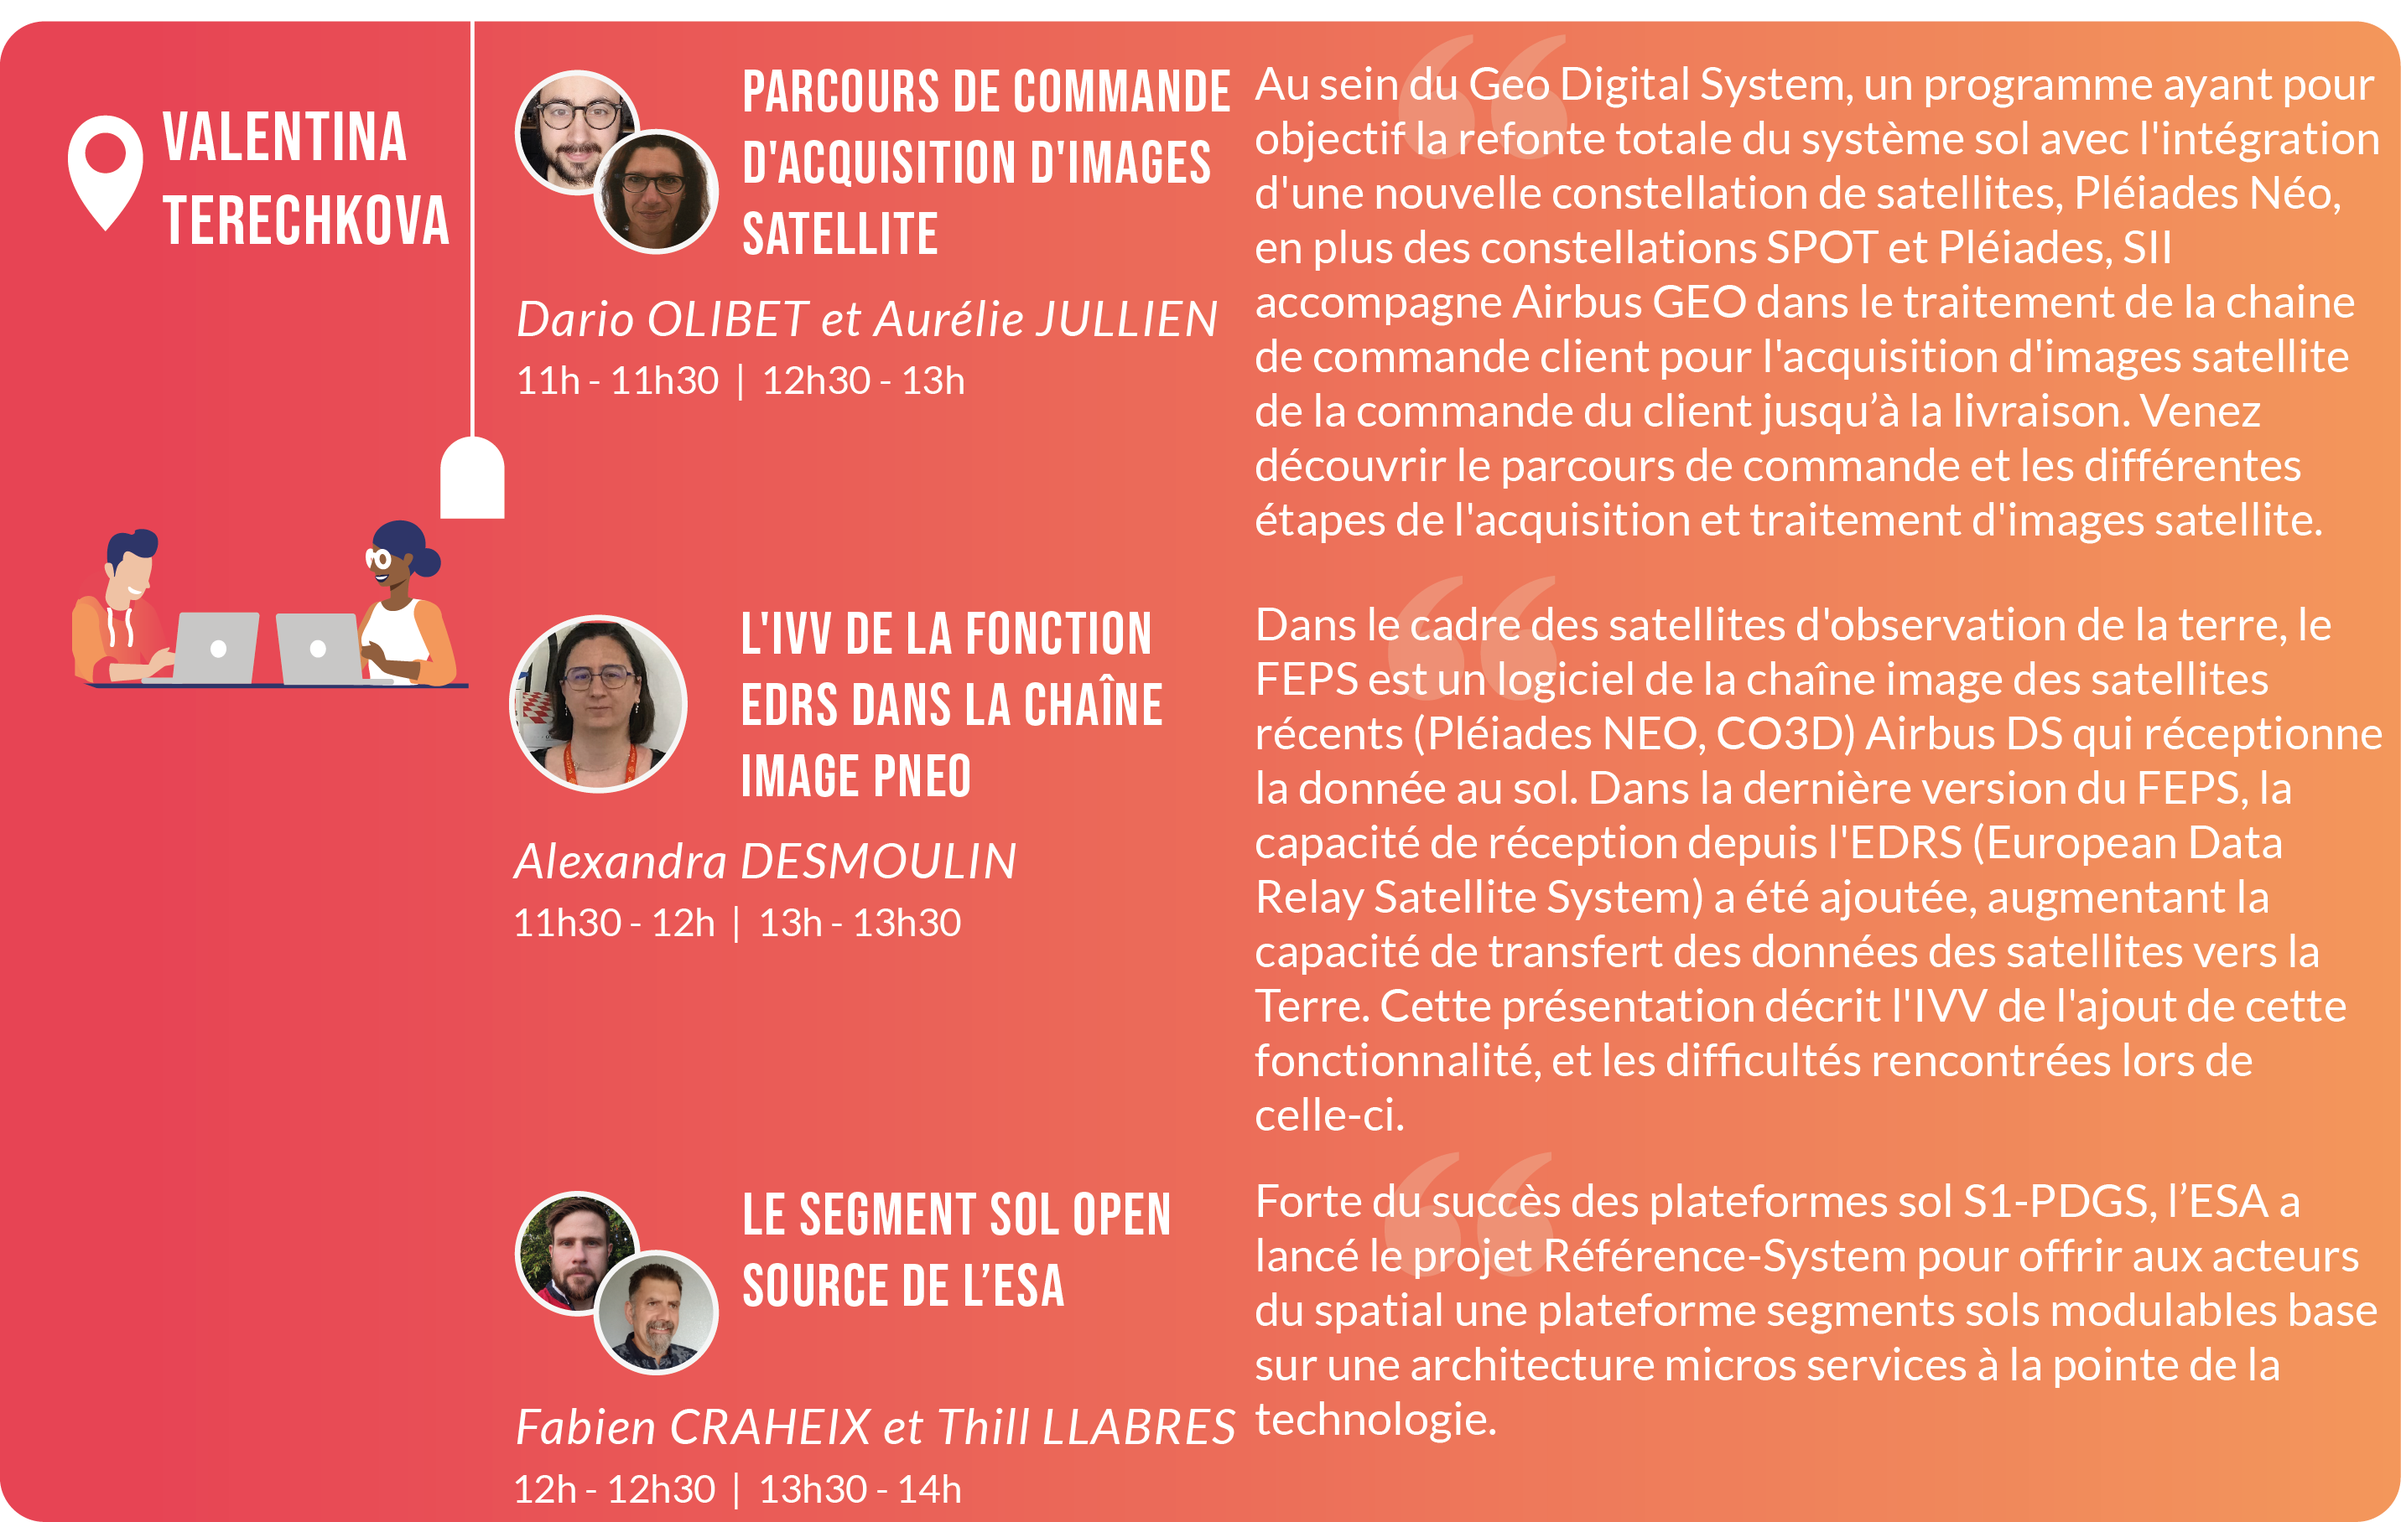
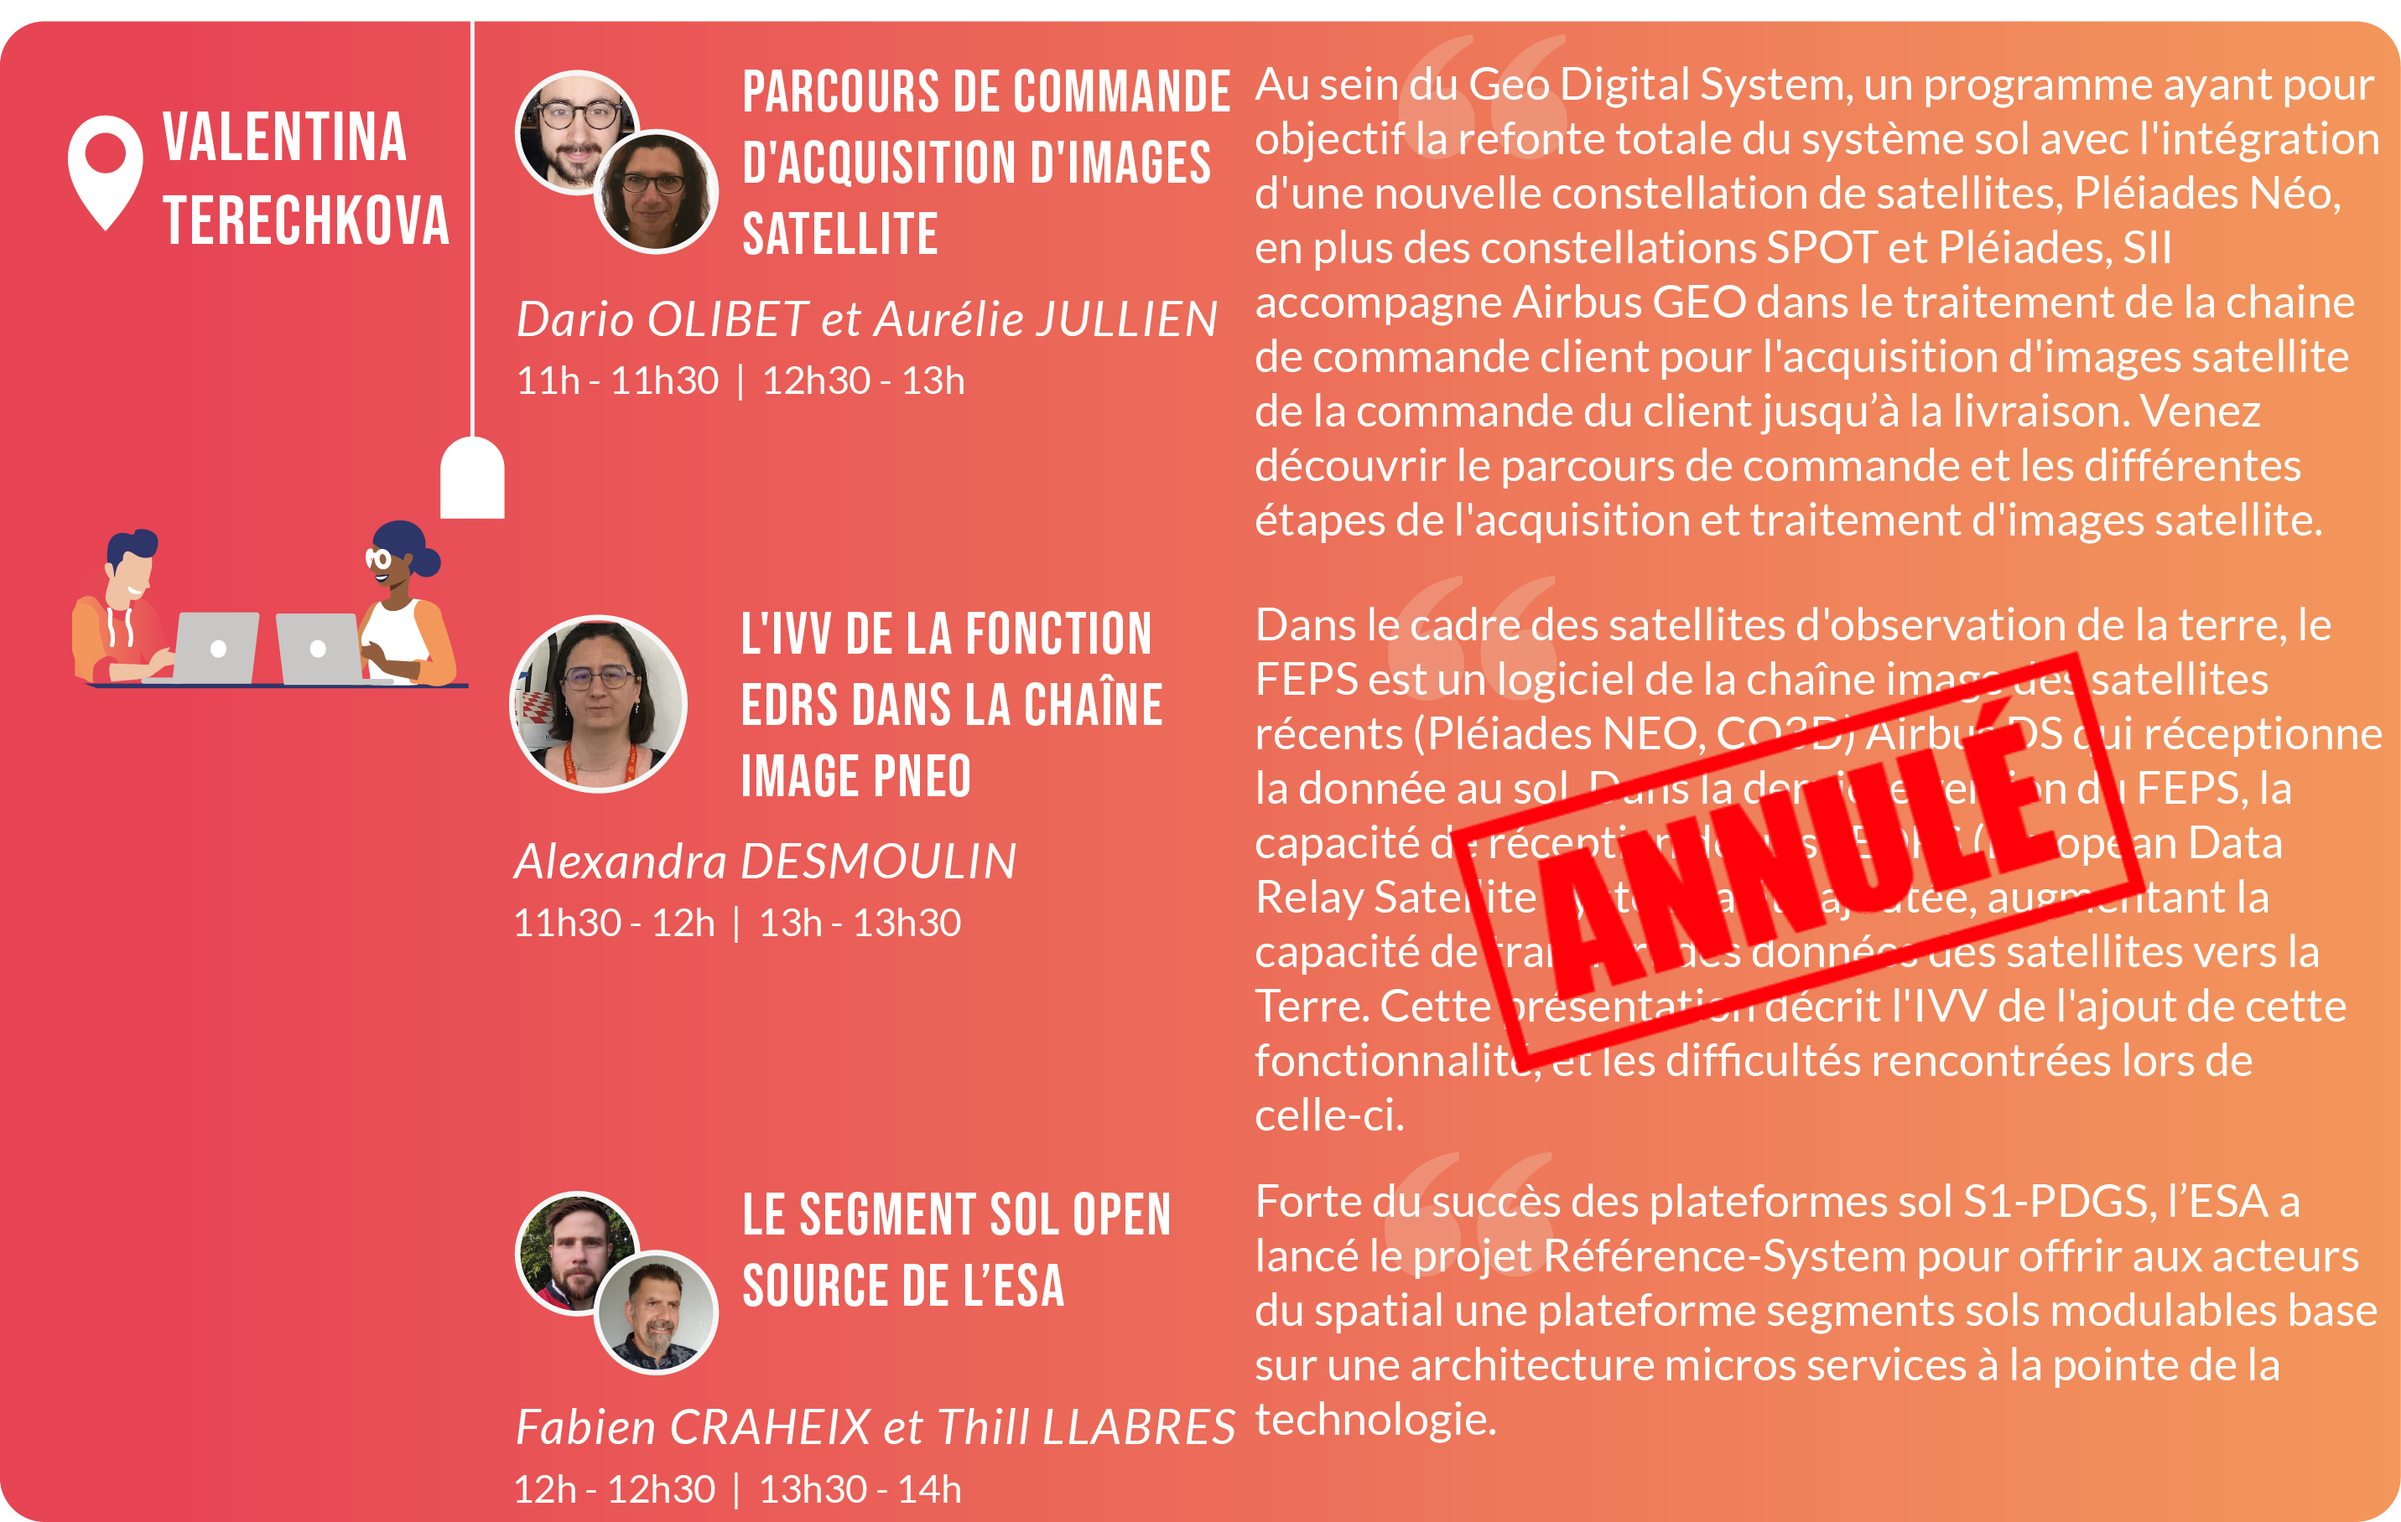
retrait d'une des conférence

Changed region(s): [[0.5906, 0.4317, 0.9015, 0.7093]]

diff --git a/index.html b/index.html
@@ -172,11 +172,6 @@
                             <a href="https://voip.siinergy.net/meet/8945a727077239ebe0630882e7732b5d09c731a5" target="_blank"><img class="agrandir_arrow" src="img/3CX_Logo_2.png" /></a>
                         </button>  
                     </div>   
-                    <div class="arrow sixth_popup_second_arrow">
-                        <button type="button" class="button-arrow" >
-                            <a href="https://voip.siinergy.net/meet/3bd09aece236138cc1120a612786b14f078e7c01" target="_blank"><img class="agrandir_arrow" src="img/3CX_Logo_2.png" /></a>
-                        </button>
-                    </div>
                     <div class="arrow sixth_popup_third_arrow">
                         <button type="button" class="button-arrow" >
                             <a href="https://voip.siinergy.net/meet/9d7d2c573df802edd2b253de3f0672d64f1023b0" target="_blank"><img class="agrandir_arrow" src="img/3CX_Logo_2.png" /></a>
@@ -282,8 +277,6 @@
                             <p class="line">-----------------------------</p>
                             <a class="presentation_text shortcut_16" href="https://voip.siinergy.net/meet/8945a727077239ebe0630882e7732b5d09c731a5" target="_blank">Parcours de commande <br> d'acquisition d'images satellite</a>
                             <p class="line">-----------------------------</p>
-                            <a class="presentation_text shortcut_17" href="https://voip.siinergy.net/meet/3bd09aece236138cc1120a612786b14f078e7c01" target="_blank">L'IVV de la fonction EDRS dans la chaine image PNEO</a>
-                            <p class="line">-----------------------------</p>
                             <a class="presentation_text shortcut_18" href="https://voip.siinergy.net/meet/9d7d2c573df802edd2b253de3f0672d64f1023b0" target="_blank">Le segment sol open source de l'ESA</a>
                             <p class="line">-----------------------------</p>
                             <a class="presentation_text shortcut_19" href="https://voip.siinergy.net/meet/364bcfa0964e4f34e8a13fc7ae5303ceb5d440b6" target="_blank">KUBERNETES, argo workflows & Data science</a>
@@ -357,10 +350,8 @@
                     <div class="cursor_pointer sixth_column" style="position: absolute; width: 14.3%; height: 4%; left: 80.3%; top: 39.3%;"><a style="display: inline-block; width: 100%; height: 100%;" href="https://voip.siinergy.net/meet/ab1d9b2453dda57b3dbb37562e08a952924ec805" target="_blank"></a></div>
 
                     <div class="cursor_pointer first_column" style="position: absolute; width: 14.1%; height: 4%; left: 9%; top: 45.9%;"><a style="display: inline-block; width: 100%; height: 100%;" href="https://voip.siinergy.net/meet/8945a727077239ebe0630882e7732b5d09c731a5" target="_blank"></a></div>
-                    <div class="cursor_pointer second_column" style="position: absolute; width: 14.1%; height: 4%; left: 23.3%; top: 45.9%;"><a style="display: inline-block; width: 100%; height: 100%;" href="https://voip.siinergy.net/meet/3bd09aece236138cc1120a612786b14f078e7c01" target="_blank"></a></div>
                     <div class="cursor_pointer third_column" style="position: absolute; width: 14.2%; height: 4%; left: 37.4%; top: 45.9%;"><a style="display: inline-block; width: 100%; height: 100%;" href="https://voip.siinergy.net/meet/9d7d2c573df802edd2b253de3f0672d64f1023b0" target="_blank"></a></div>
                     <div class="cursor_pointer fourth_column" style="position: absolute; width: 14.3%; height: 4%; left: 51.7%; top: 45.9%;"><a style="display: inline-block; width: 100%; height: 100%;" href="https://voip.siinergy.net/meet/8945a727077239ebe0630882e7732b5d09c731a5" target="_blank"></a></div>
-                    <div class="cursor_pointer fifth_column" style="position: absolute; width: 14.1%; height: 4%; left: 66.1%; top: 45.9%;"><a style="display: inline-block; width: 100%; height: 100%;" href="https://voip.siinergy.net/meet/3bd09aece236138cc1120a612786b14f078e7c01" target="_blank"></a></div>
                     <div class="cursor_pointer sixth_column" style="position: absolute; width: 14.3%; height: 4%; left: 80.3%; top: 45.9%;"><a style="display: inline-block; width: 100%; height: 100%;" href="https://voip.siinergy.net/meet/9d7d2c573df802edd2b253de3f0672d64f1023b0" target="_blank"></a></div>
 
                     <div class="cursor_pointer first_column" style="position: absolute; width: 14.1%; height: 4%; left: 9%; top: 52.5%;"><a style="display: inline-block; width: 100%; height: 100%;" href="https://voip.siinergy.net/meet/364bcfa0964e4f34e8a13fc7ae5303ceb5d440b6" target="_blank"></a></div>

diff --git a/app.js b/app.js
@@ -41,7 +41,6 @@ const shortcut_13 = document.querySelector('.shortcut_13')
 const shortcut_14 = document.querySelector('.shortcut_14')
 const shortcut_15 = document.querySelector('.shortcut_15')
 const shortcut_16 = document.querySelector('.shortcut_16')
-const shortcut_17 = document.querySelector('.shortcut_17')
 const shortcut_18 = document.querySelector('.shortcut_18')
 const shortcut_19 = document.querySelector('.shortcut_19')
 const shortcut_20 = document.querySelector('.shortcut_20')
@@ -322,13 +321,6 @@ shortcut_16.addEventListener("mouseenter", () => {
     sixth_mini_popup.classList.add('transition_opacity')
 });
 shortcut_16.addEventListener("mouseout", () => {
-    sixth_mini_popup.classList.remove('transition_opacity')
-});
-
-shortcut_17.addEventListener("mouseenter", () => {
-    sixth_mini_popup.classList.add('transition_opacity')
-});
-shortcut_17.addEventListener("mouseout", () => {
     sixth_mini_popup.classList.remove('transition_opacity')
 });
 
